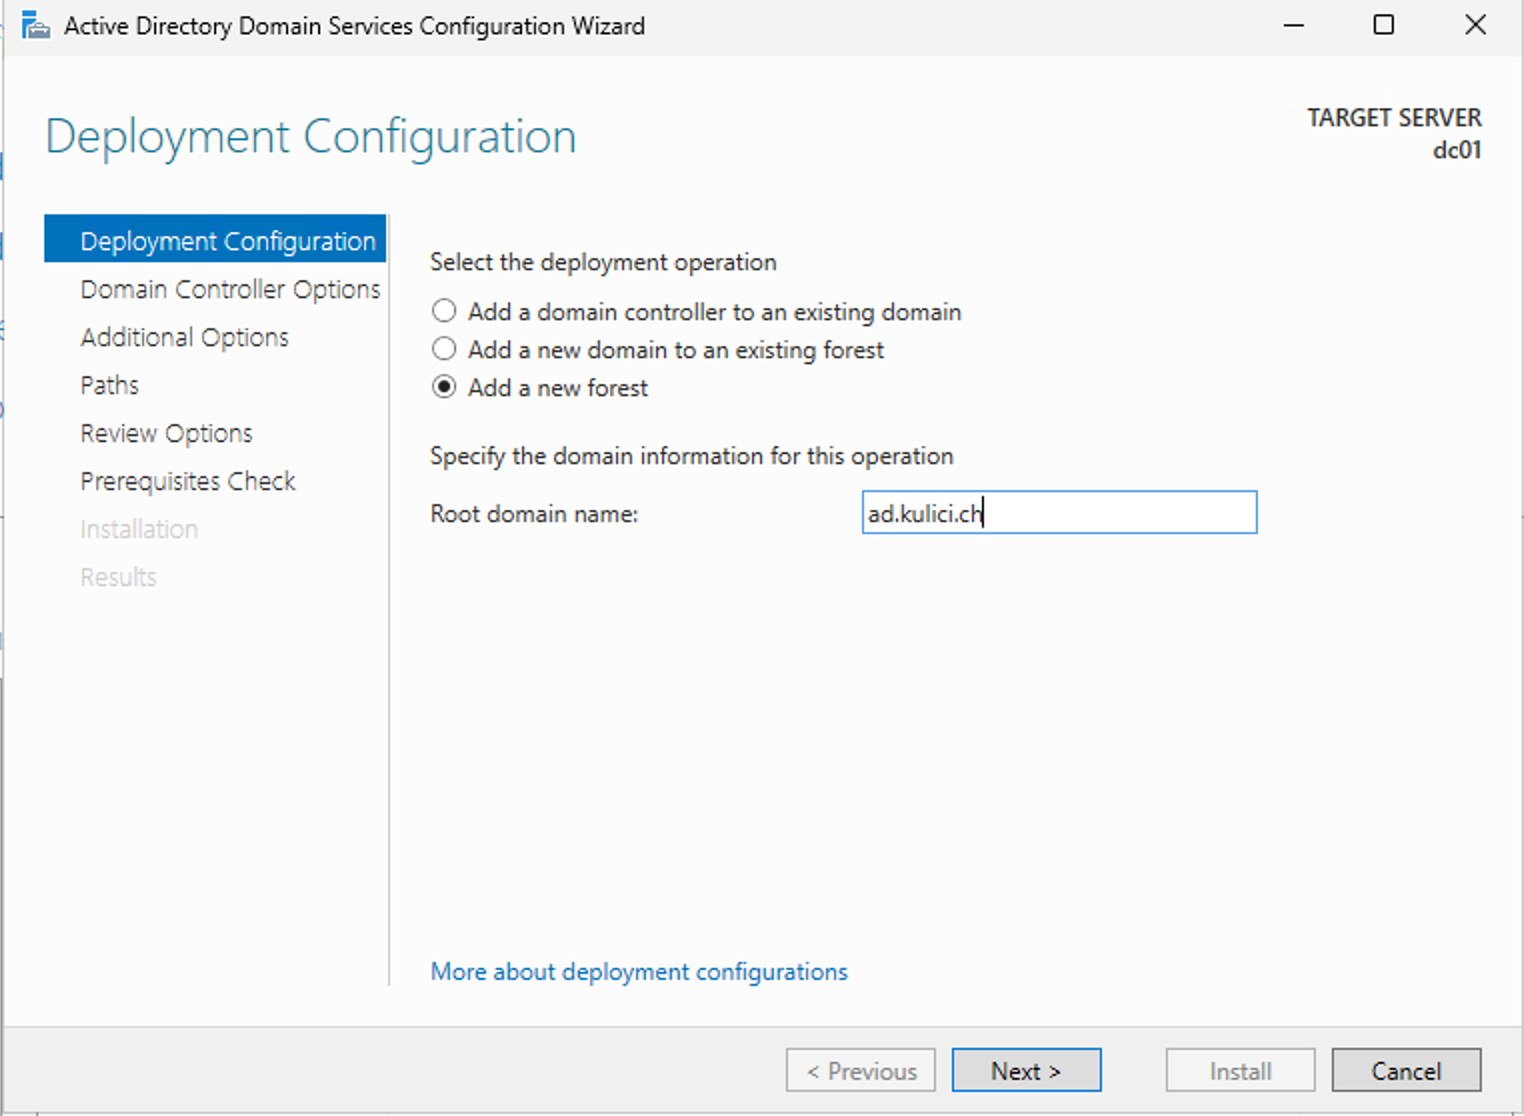
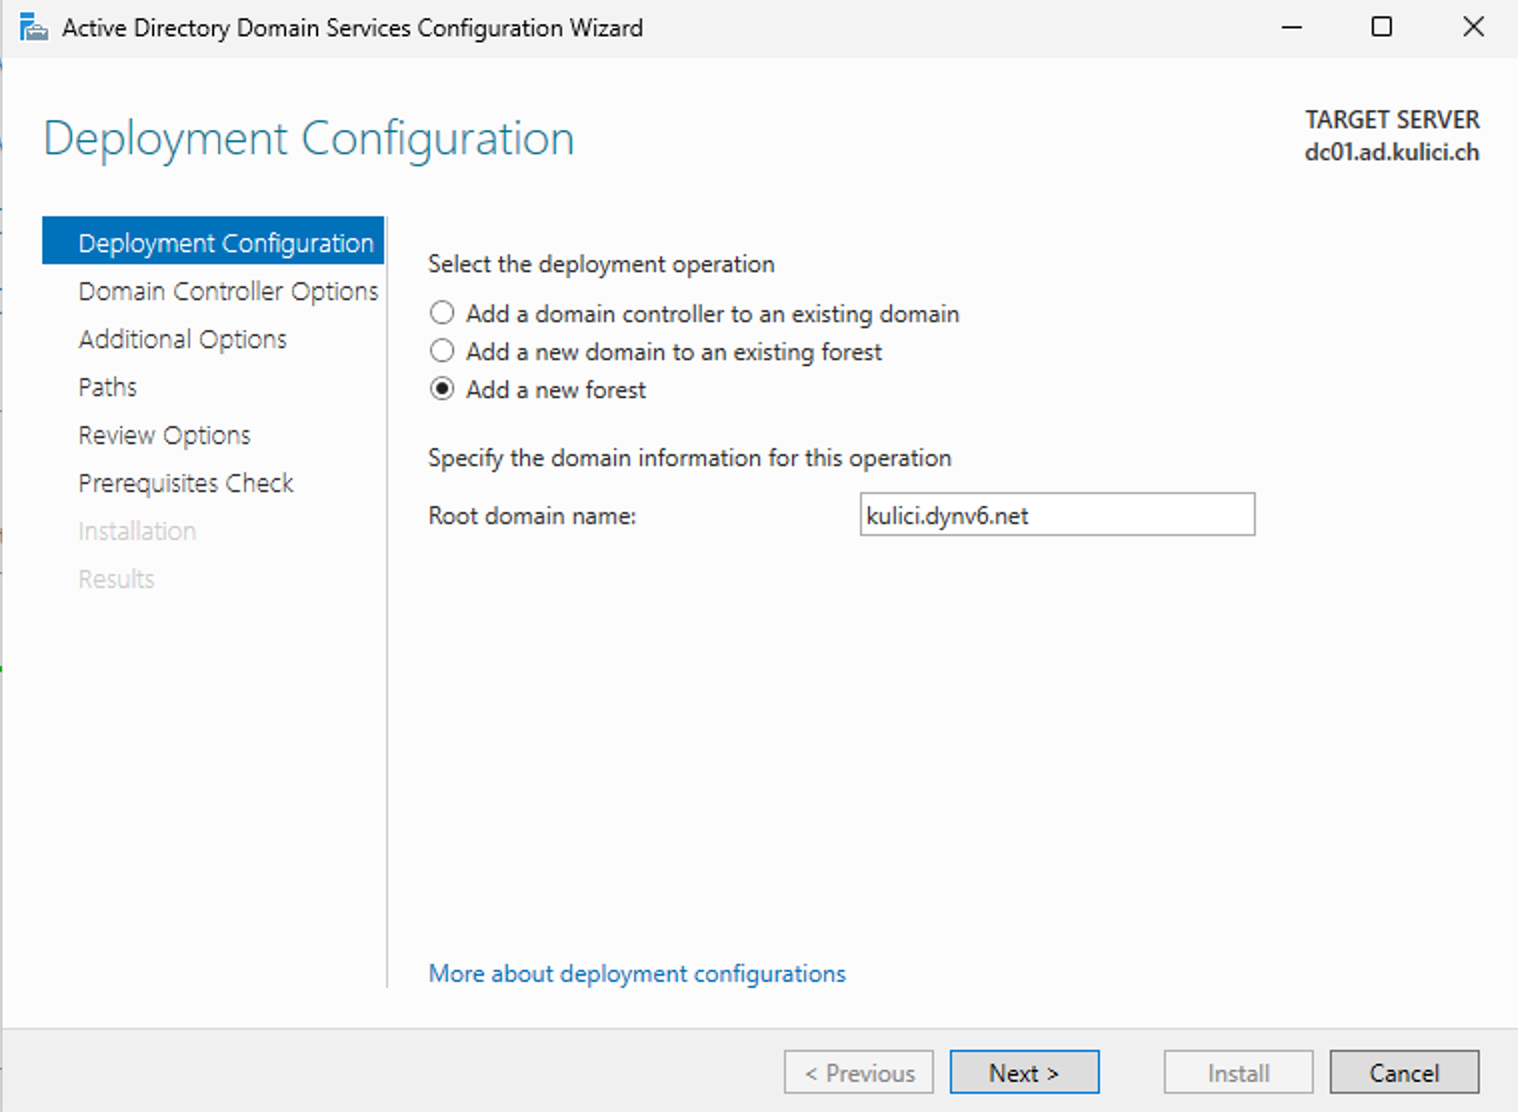
push local changes from

diff --git a/03_Einrichtung/dc01.md b/03_Einrichtung/dc01.md
@@ -225,11 +225,21 @@ Danach erstelle ich eine neue Forest indem ich den Server zu einem Domain Contro
 
 <br>
 
+Den NetBIOS Name setze ich auf "KULICI". 
+
 Nach einem Neustart ist der Server zu einem Domain Controller promoted worden und der Active Directory Service läuft. 
 
 <img width=60% height=50% alt="04_ADRunning.png" src="https://github.com/dariokulici/m159/raw/main/03_Einrichtung/media/04_ADRunning.png">
 
-## 3. Windows Server Tweaks
+
+## 3. DHCP Server
+
+Ich installiere das DHCP Modul und erstelle einen Scope für das Netzwerk. 
+
+<img width=60% height=50% alt="06_createdhcpscope.png" src="https://github.com/dariokulici/m159/raw/main/03_Einrichtung/media/06_createdhcpscope.png">
+
+
+## 4. Windows Server Tweaks
 
 ### IPv6 Deaktivierung
 
